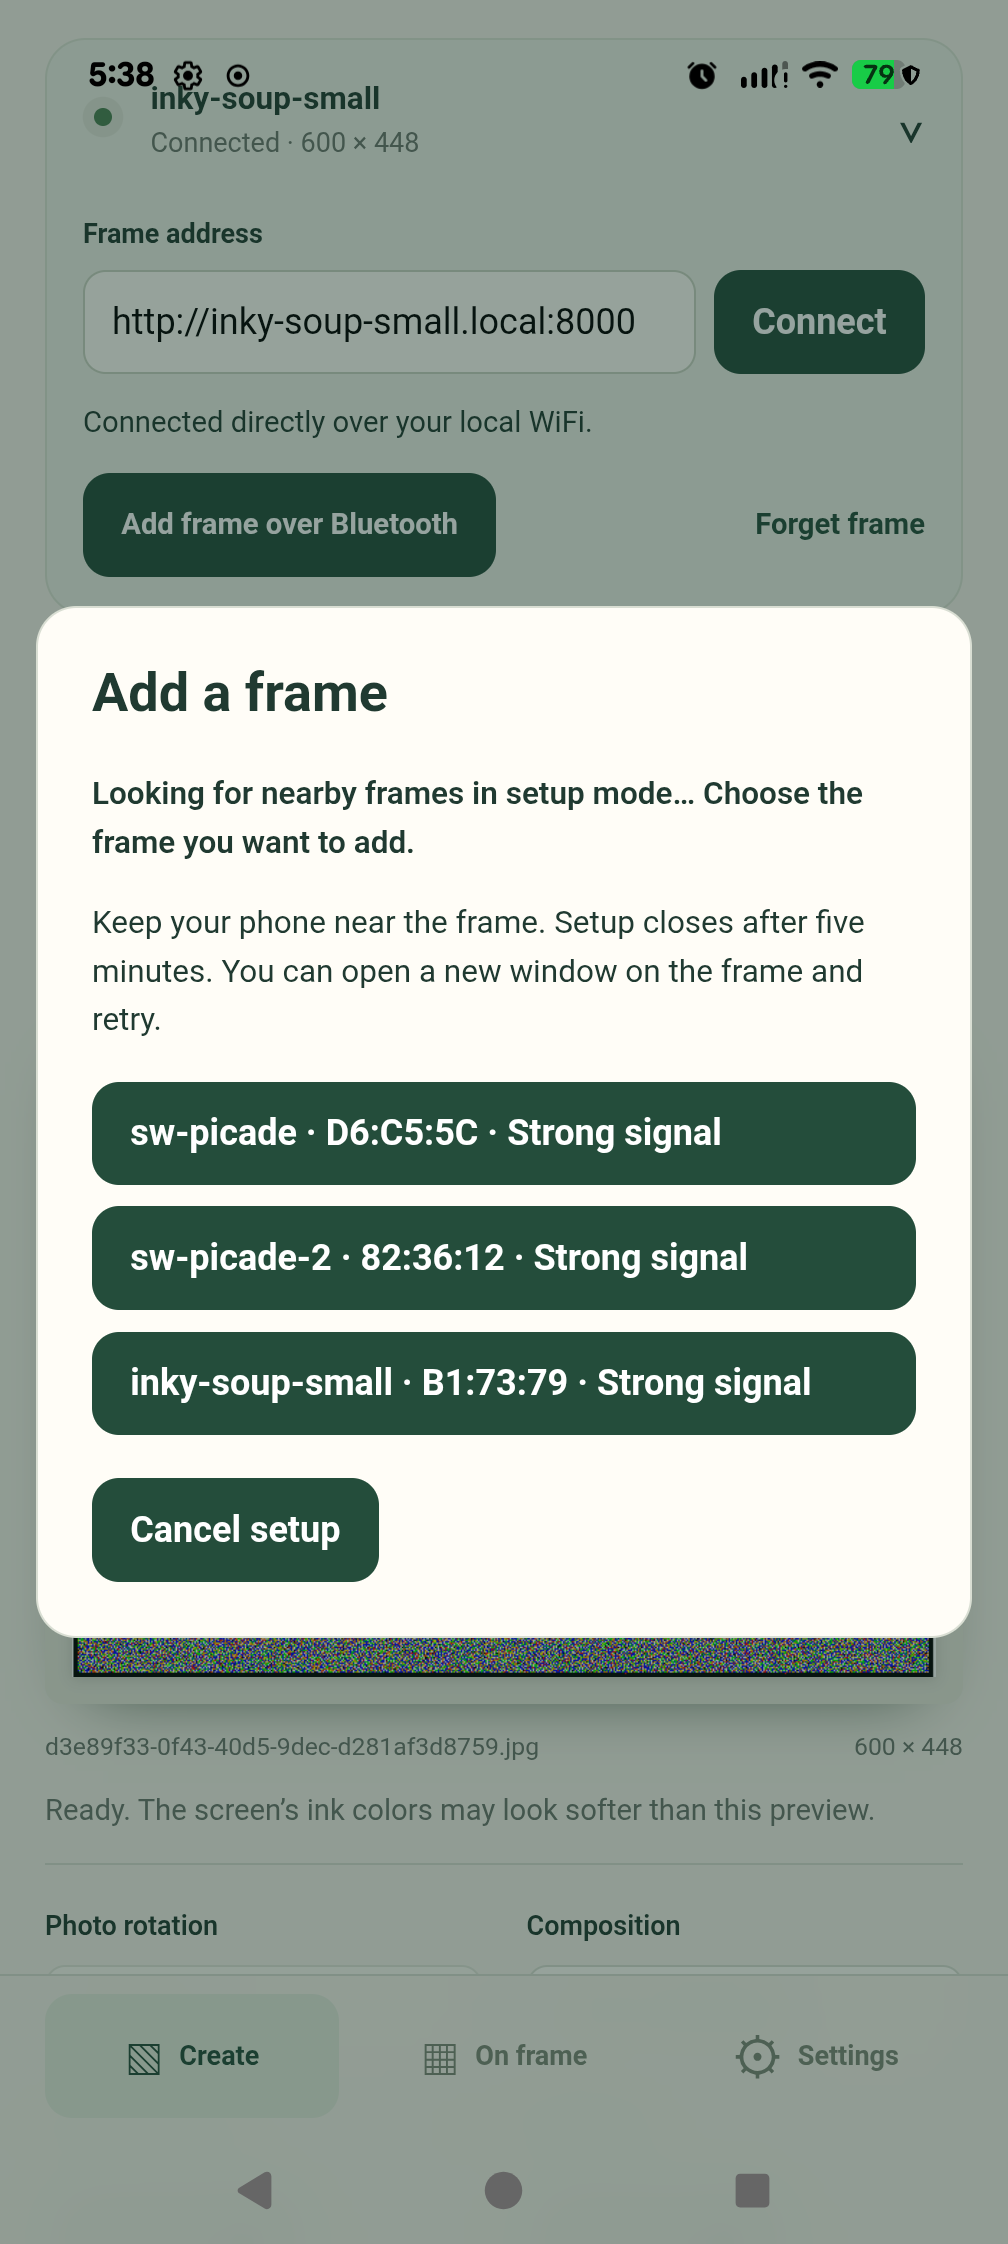
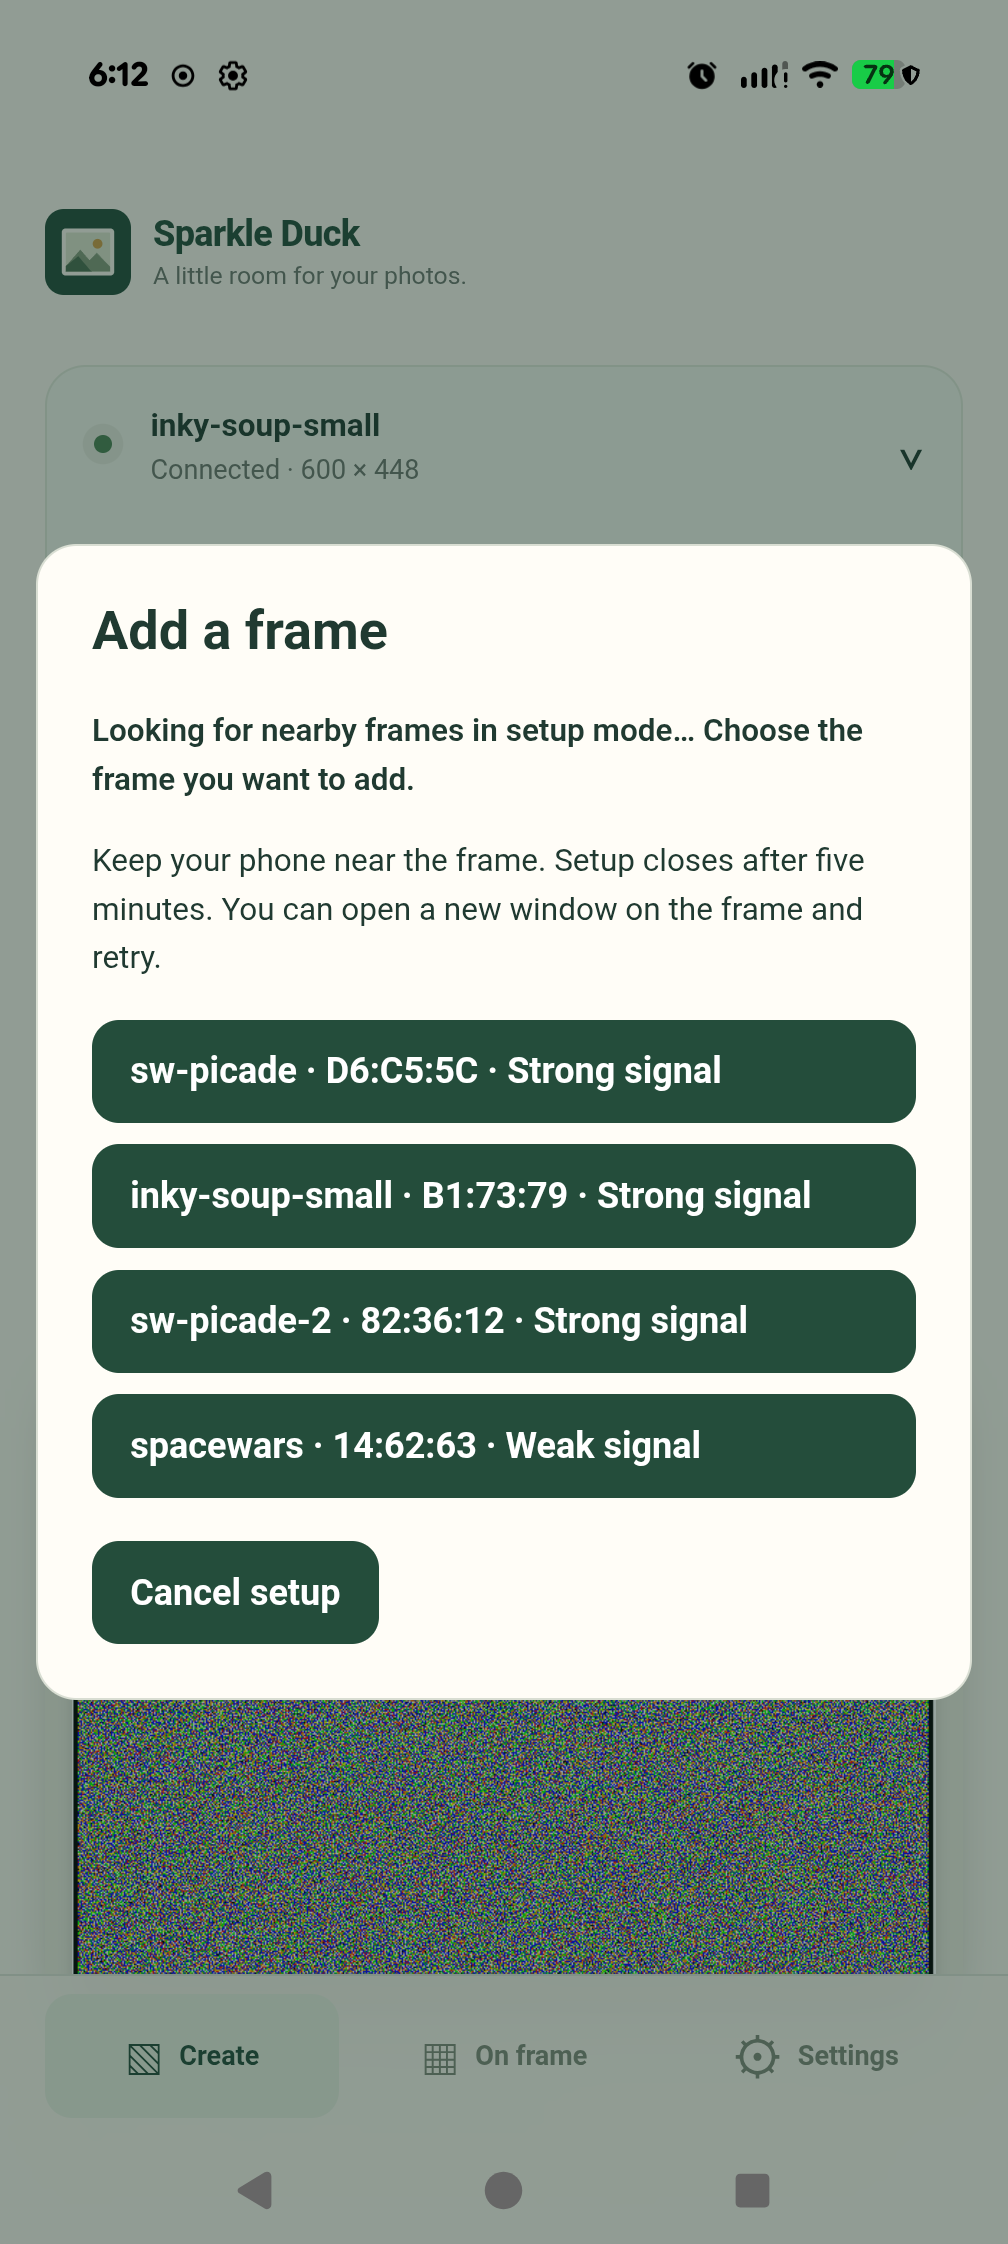
Record Android Bluetooth and physical display validation

diff --git a/docs/validation/android-ble.md b/docs/validation/android-ble.md
@@ -11,20 +11,22 @@ Local date: 2026-10-25. Issue #22, using the #21 direct-Pi adapter.
   storage is covered by the Android-bundle browser test, rather than uninstalling
   the user's app.
 
-The recorded BLE pass used APK SHA-256
[1 lines of base64/hex data omitted]
-The final rescan-cancellation guard was added afterward. Retesting the final APK
-and sending a physical photo are pending phone availability.
+The final installed APK matches the built artifact, SHA-256
[1 lines of base64/hex data omitted]
 
 ## Completed device checks
 
 The first manual pass denied the Android Nearby devices prompt, verified an
-explanation/retry path, then allowed the permission at the next scan. The scan
+explanation/retry path, then allowed the permission at the next scan. A later
+Bluetooth-off state produced the expected recovery message; the app’s settings
+link opened Android Settings and Bluetooth was enabled for testing. The scan
 listed several Improv peripherals with distinct names/address suffixes; only
 `88:A2:9E:B1:73:79` (the small Pi) was selected.
 
 `app/tools/android-ble-check.mjs` then verified native GATT connection,
 cancellation/reconnection, a failed credential attempt, and successful retry.
+Closing the setup window with the existing CLI while GATT was connected produced
+recoverable feedback, and reopening it allowed a fresh connection.
 A 32-byte Unicode SSID and 64-byte Unicode password were sent as one 101-byte
 Improv packet to a nonexistent network. Firmware returned WiFi connection failure,
 confirming the native write was accepted and decoded. Credentials were cleared.
@@ -41,8 +43,36 @@ See [machine-readable results](android-ble-pixel9.json).
 
 Credentials were read into memory from the selected Pi for same-network testing;
 no real SSID/password is retained in these artifacts. The phone's keep-awake
-setting was restored, and the Pi's setup window closed following successful setup.
+setting was restored to 0, Bluetooth was restored to off (its state when the phone
+was returned for the final pass), and the Pi's setup window closed following setup.
 Other discovered peripherals were not connected to or configured.
+
+## Photo through the provisioned connection
+
+With the editor still connected to the BLE-returned `.local` address, ran:
+
+```sh
+node app/tools/android-pi-check.mjs --serial PHONE_SERIAL \
+  --device http://192.168.1.149:8000 --connected \
+  --photo /tmp/inky-android-wifi-large.jpg --flash --output /tmp/inky-22-photo.json
+```
+
+The app sent the 18,992,047-byte synthetic JPEG and its derived PNGs without
+re-entering or replacing the connection address. The upload/refresh completed in
+45,216 ms; CLI independently confirmed **job 7, Completed** (about 36 seconds of
+physical refresh). It then downloaded/reopened the original and acquired its edit
+lock. Native transfer files were empty and there were no external WebView HTTP
+requests or page errors.
+
+The seven-bar/TOP/detail pattern is the same fixture used in #21. This run records
+successful driver completion and the inspected app preview, without a new human
+visual confirmation of the physical panel. The latest disposable photo is
+`8a7c252b-95f3-422d-89f3-0560b3872180.jpg`; the previous known disposable fixture
+from job 6 was deleted after success. Other photos were preserved.
+
+See [photo/CLI results](android-ble-photo.json).
+
+![Editor after the physical refresh](android-ble-photo.png)
 
 ## Automated validation
 
@@ -55,5 +85,6 @@ Other discovered peripherals were not connected to or configured.
 Mocks cover Bluetooth-off, denied permission, setup expiry, disconnect, timeout,
 late GATT results, cancelled API verification, and success-with-unreachable-API
 retry. The controller's polling path covers older firmware without notifications.
-These are not claims of physical testing on older Android versions or every
-failure mode. No OS bonding or persistent device ownership is introduced.
+Bluetooth-off, permission denial, cancellation, explicit firmware-window closure,
+failed credentials, and successful retry also ran on the real phone. Tests are not
+claims of physical coverage on older Android versions or every failure mode. No OS bonding or persistent device ownership is introduced.

diff --git a/app/README.md b/app/README.md
@@ -245,7 +245,7 @@ successful BLE operation with an unreachable API offers **Retry frame connection
 without resending credentials.
 
 The repeatable hardware check selects a specific small frame, cancels/reconnects,
-sends maximum-length Unicode credentials for a nonexistent network, verifies the
+checks the firmware closing its setup window, then sends maximum-length Unicode credentials for a nonexistent network, verifies the
 failure, and retries with the supplied real credentials. It opens the setup window
 through `inky-cli` and changes that frame’s WiFi configuration. Supply JSON
 `{"ssid":"...","password":"..."}` on stdin using an existing private file or a
@@ -259,7 +259,8 @@ node app/tools/android-ble-check.mjs --serial PHONE_SERIAL \
 ```
 
 The script records outcomes/screenshots without credentials and restores the
-phone’s keep-awake setting. After it passes, use `android-pi-check.mjs --flash` to
-send a disposable photo to the physical display. See the recorded
+phone’s keep-awake setting. After it passes, use `android-pi-check.mjs --connected --flash` to send a disposable
+photo through that existing connection. `--device` still identifies the Pi for the
+independent CLI check; `--connected` preserves the app’s BLE-returned address. See the recorded
 [Pixel / small-Pi validation](../docs/validation/android-ble.md). Tests on one recent
 phone do not establish hardware compatibility for every supported Android version.
